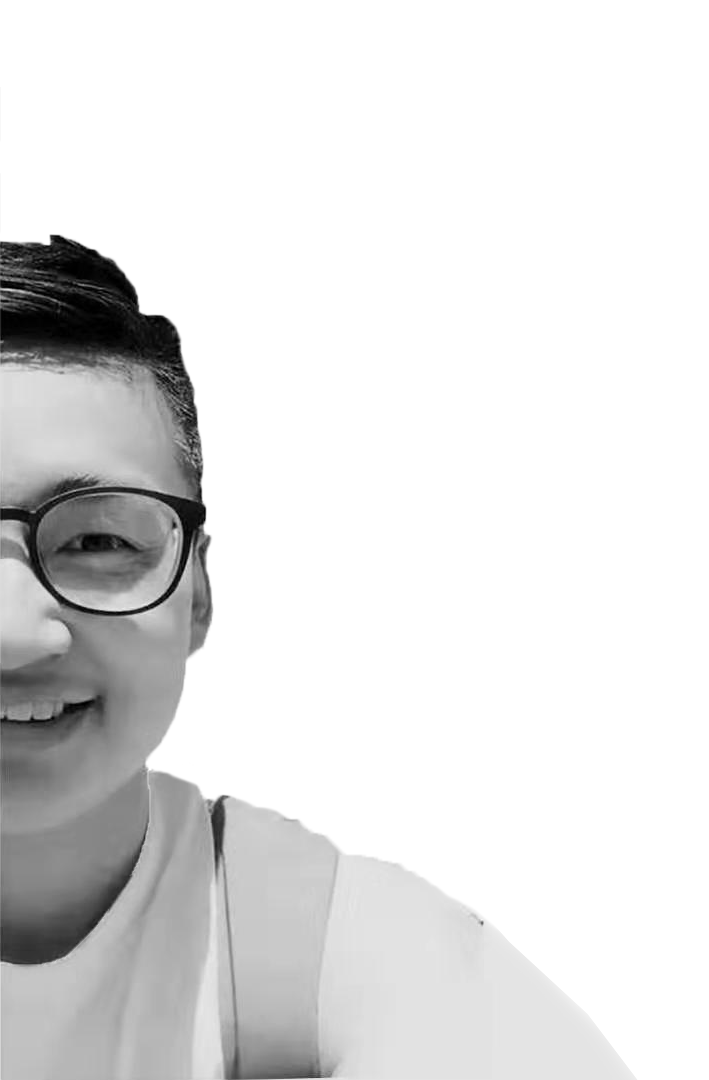
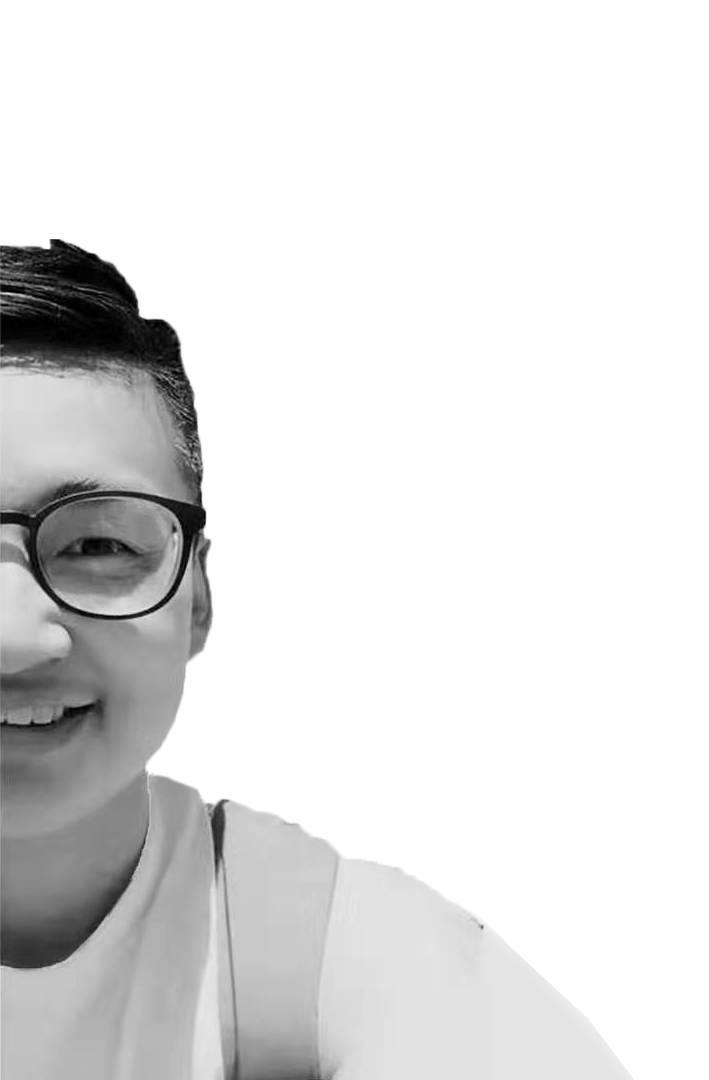
add the personal infor section

diff --git a/style/index.css b/style/index.css
@@ -32,15 +32,13 @@ body{
   height: 100vh;
   overflow: hidden;
   position: relative;
-  padding: 4em 8em;
-  box-sizing: border-box;
+  padding: 4em 8em 0 8em;
 
 }
 
 .logo1{
   position: fixed;
   height: 100px;
-
 }
 
 .logo2{
@@ -152,11 +150,91 @@ section .computer img{
 
 .container_two .info{
   margin:0 auto;
-  border:1px solid white;
+  /* border:1px solid white; */
   height: 100%;
-  width: 80%;
-  /* display: grid;
-  grid-template-columns: 1fr 1fr; */
+  width: 90%;
+
+}
+
+.container_two .content{
+  display: grid;
+  grid-template-columns: 1fr 1fr;
+}
+
+
+
+.container_two .photo img{
+  position: absolute;
+  bottom: 0;
+  height: 780px;
+
+}
+.container_two .intro .hello{
+  font-family: 'Lato', sans-serif;
+  position: absolute;
+  bottom:340px;
+  left:420px;
+  font-size: 90px;
+  transform: rotate(-90deg);
+  color:white;
+}
+
+
+.container_two .intro h1{
+  font-family: 'Lato', sans-serif;
+  position: absolute;
+  bottom:340px;
+  left:470px;
+  font-size: 90px;
+  transform: rotate(-90deg);
+  color:white;
+}
+
+.container_two .intro h3{
+  font-size: 18px;
+  text-align: right;
+  font-family: 'Lato', sans-serif;
+  padding-top:600px;
+  padding-right:20px;
+
+  color:white;
+}
+.coder h1{
+  font-size: 60px;
+  text-align: right;
+  font-family: 'Lato', sans-serif;
+  position: absolute;
+  top:250px;
+  right:120px;
+  color:white;
+}
+
+.coder p{
+  font-size: 18px;
+  font-family: 'Lato', sans-serif;
+  position: absolute;
+  bottom:450px;
+  right:100px;
+  color:white;
+}
+
+.coder h2{
+  font-size: 40px;
+  text-align: right;
+  font-family: 'Lato', sans-serif;
+  position: absolute;
+  top:480px;
+  right:180px;
+  color:white;
+}
+
+.coder .ux_designer{
+  font-size: 18px;
+  font-family: 'Lato', sans-serif;
+  position: absolute;
+  bottom:270px;
+  right:250px;
+  color:white;
 }
 
  
@@ -171,6 +249,9 @@ section .computer img{
   height: 30vh;
   background: rgb(245,190,90);
 }
+
+
+
 
 
 

diff --git a/index.html b/index.html
@@ -88,20 +88,28 @@
       <a href="index.html"><img src="./asset/logo2.svg" alt="logo" class="logo2"></a>
 
       <div class="info">
-          <h1>
-            fhufsfoejflls
-          </h1>
-          <div class="title">
-    
-          </div>
+       
+       
         
           <div class="content">
             <div class="intro">
-      
+
+              <h1 class="hello">HELLO</h1>
+              <h1>  I'M HENG</h1>
+              <h3>An entry-level web developer who is able to build Web sites from layout,
+                  programming to UX. With abilities to develop and manage projects using
+                  Git and the Agile. Skilled in conceptualizing, designing, development,
+                  and deploying websites using the latest front-end techniques.</h3>
             </div>
       
             <div class="photo">
-      
+              <img src="./asset/photo.png" alt="">
+              <div class="coder">
+                <h1> &lt; developer &gt;</h1>
+                <p>Full stack Developer who focuses on writing clean, <br> elegant and efficient code.</p>
+                <h2> &lt; designer &gt;</h2>
+                <p class="ux_designer">UI/UX experiences</p>
+              </div>
             </div>
           </div>
         

diff --git a/style/home_menu.css b/style/home_menu.css
@@ -6,7 +6,7 @@ section .menu {
   position: relative;
   width: 50px;
   height: 50px;
-  right:-1200px;
+  right:-100px;
   top:-330px;
 }
 
